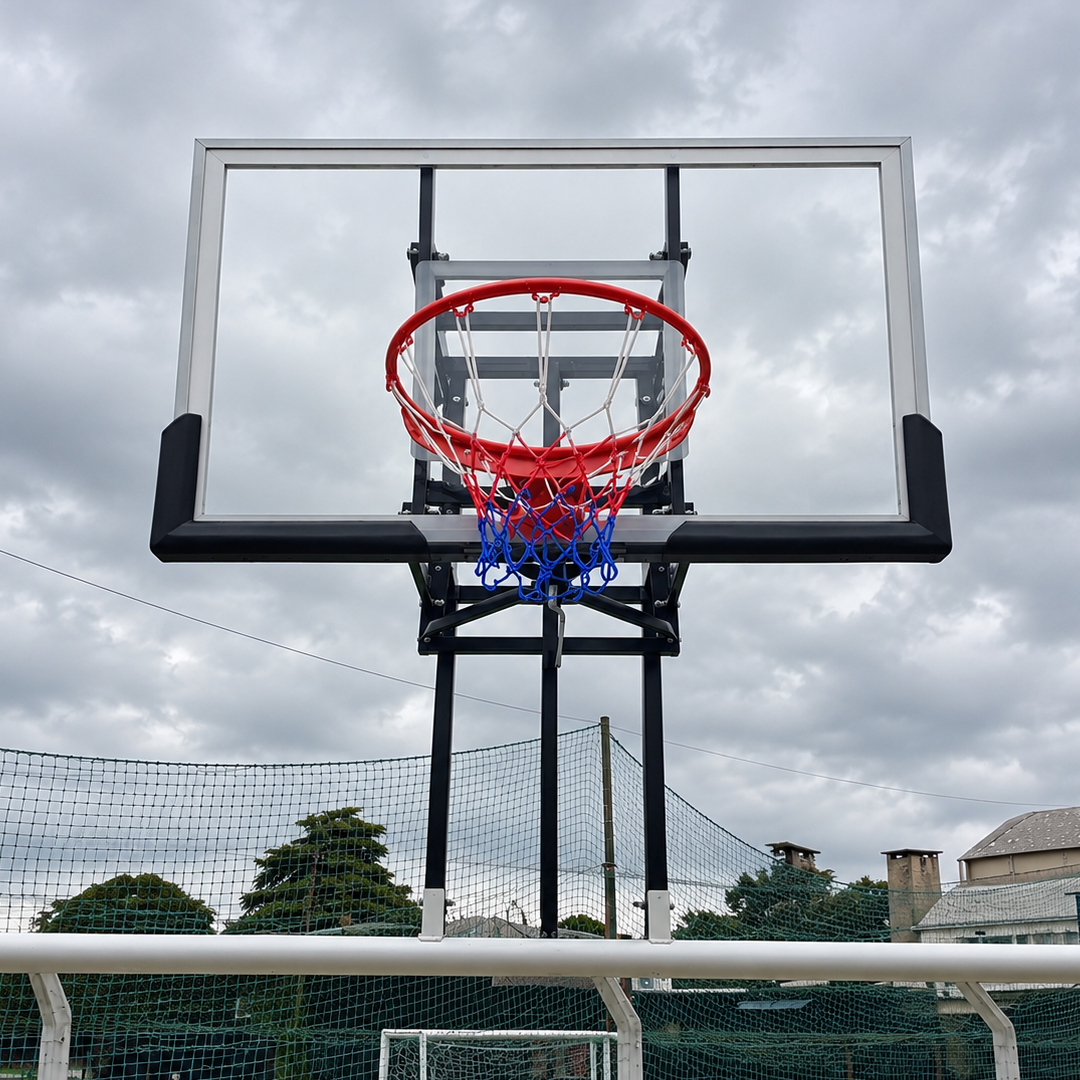
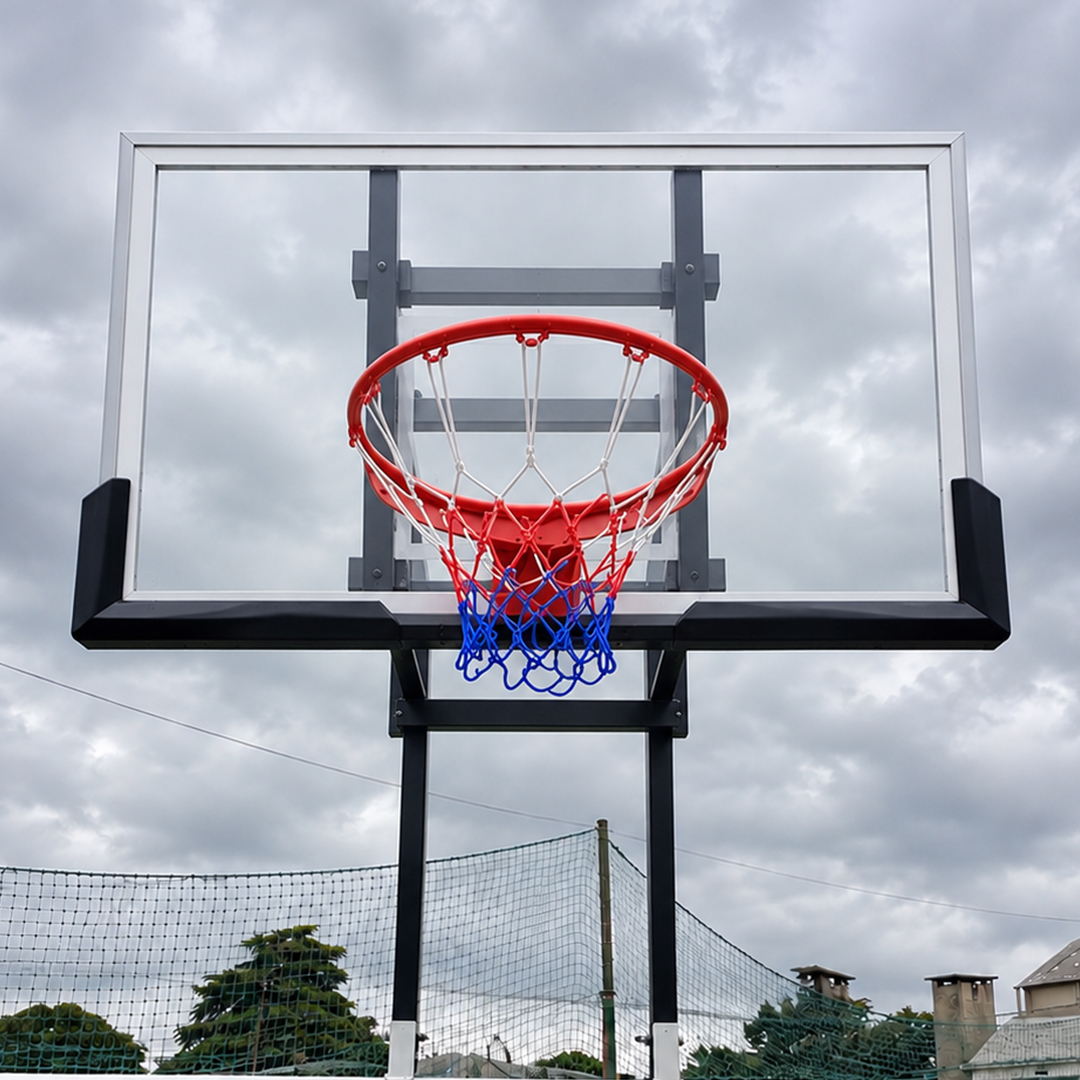
Actualizar fotos de productos y remover vidrio-5
- 10 fotos reemplazadas: chapa 1-3, acrilico 1-4, vidrio 1/3/4
- vidrio-5.jpg eliminada; carrusel de vidrio ahora tiene 4 slides

diff --git a/index.html b/index.html
@@ -1076,11 +1076,10 @@ body { padding-top: 42px; }
           <div class="carousel-slide"><img loading="lazy" decoding="async" src="img/vidrio-2.jpg" alt="Tablero de basket de vidrio templado 2" /></div>
           <div class="carousel-slide"><img loading="lazy" decoding="async" src="img/vidrio-3.jpg" alt="Tablero de basket de vidrio templado 3" /></div>
           <div class="carousel-slide"><img loading="lazy" decoding="async" src="img/vidrio-4.jpg" alt="Tablero de basket de vidrio templado 4" /></div>
-          <div class="carousel-slide"><img loading="lazy" decoding="async" src="img/vidrio-5.jpg" alt="Tablero de basket de vidrio templado 5" /></div>
         </div>
         <button type="button" class="carousel-btn prev" aria-label="Imagen anterior">&#8249;</button>
         <button type="button" class="carousel-btn next" aria-label="Imagen siguiente">&#8250;</button>
-        <div class="carousel-counter"><span class="cur">1</span> / <span class="tot">5</span></div>
+        <div class="carousel-counter"><span class="cur">1</span> / <span class="tot">4</span></div>
         <div class="carousel-dots" role="tablist"></div>
       </div>
     </div>
